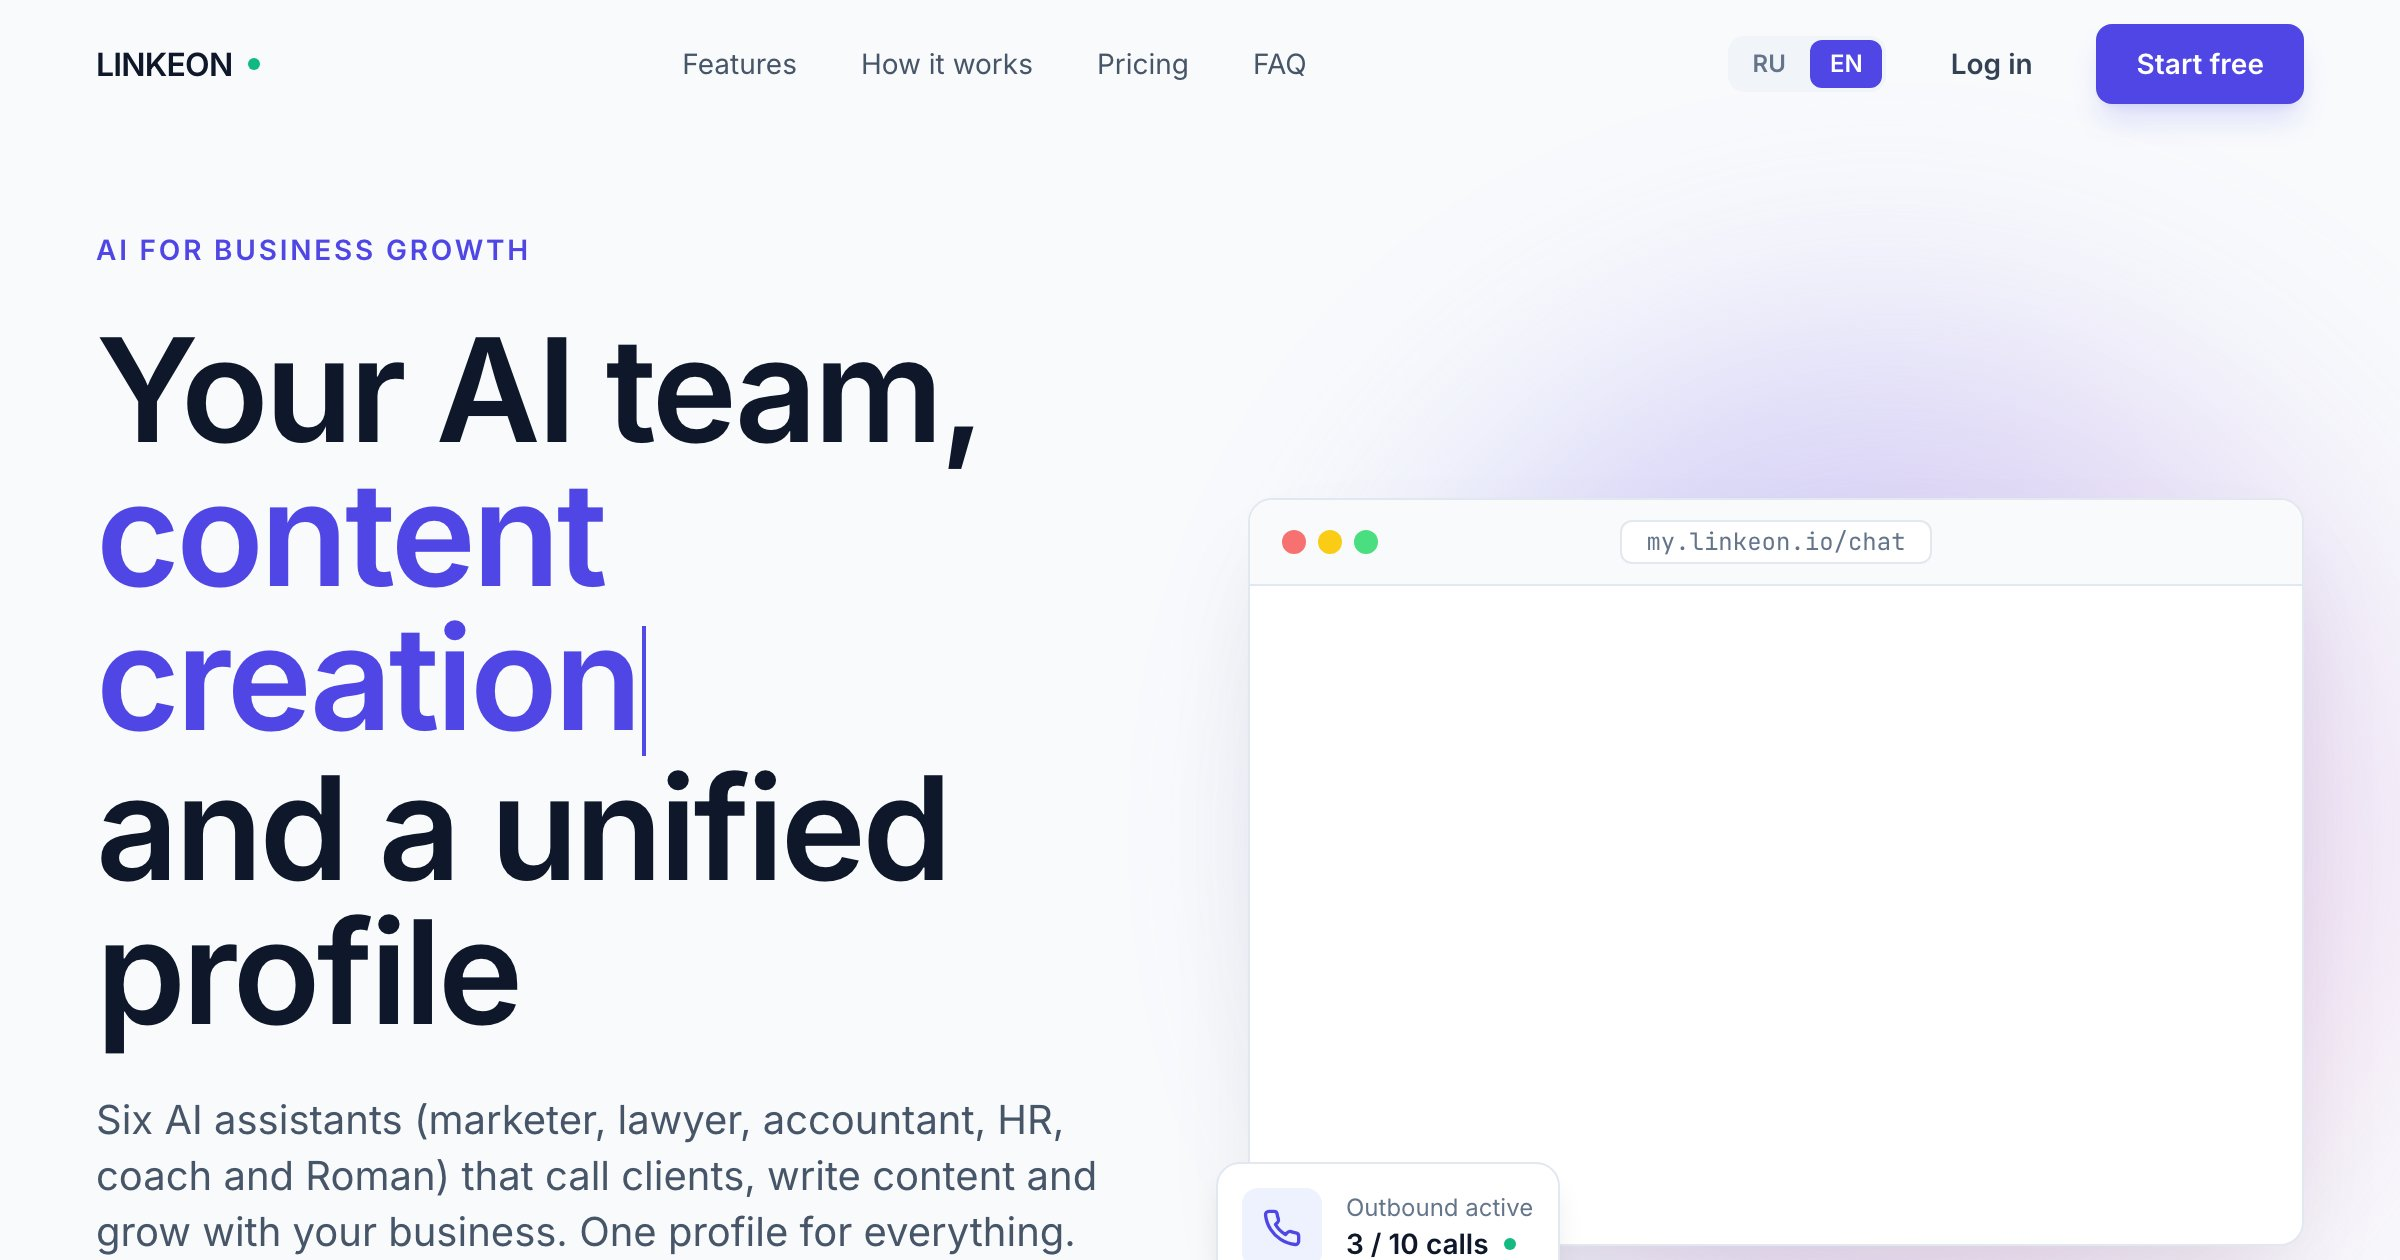
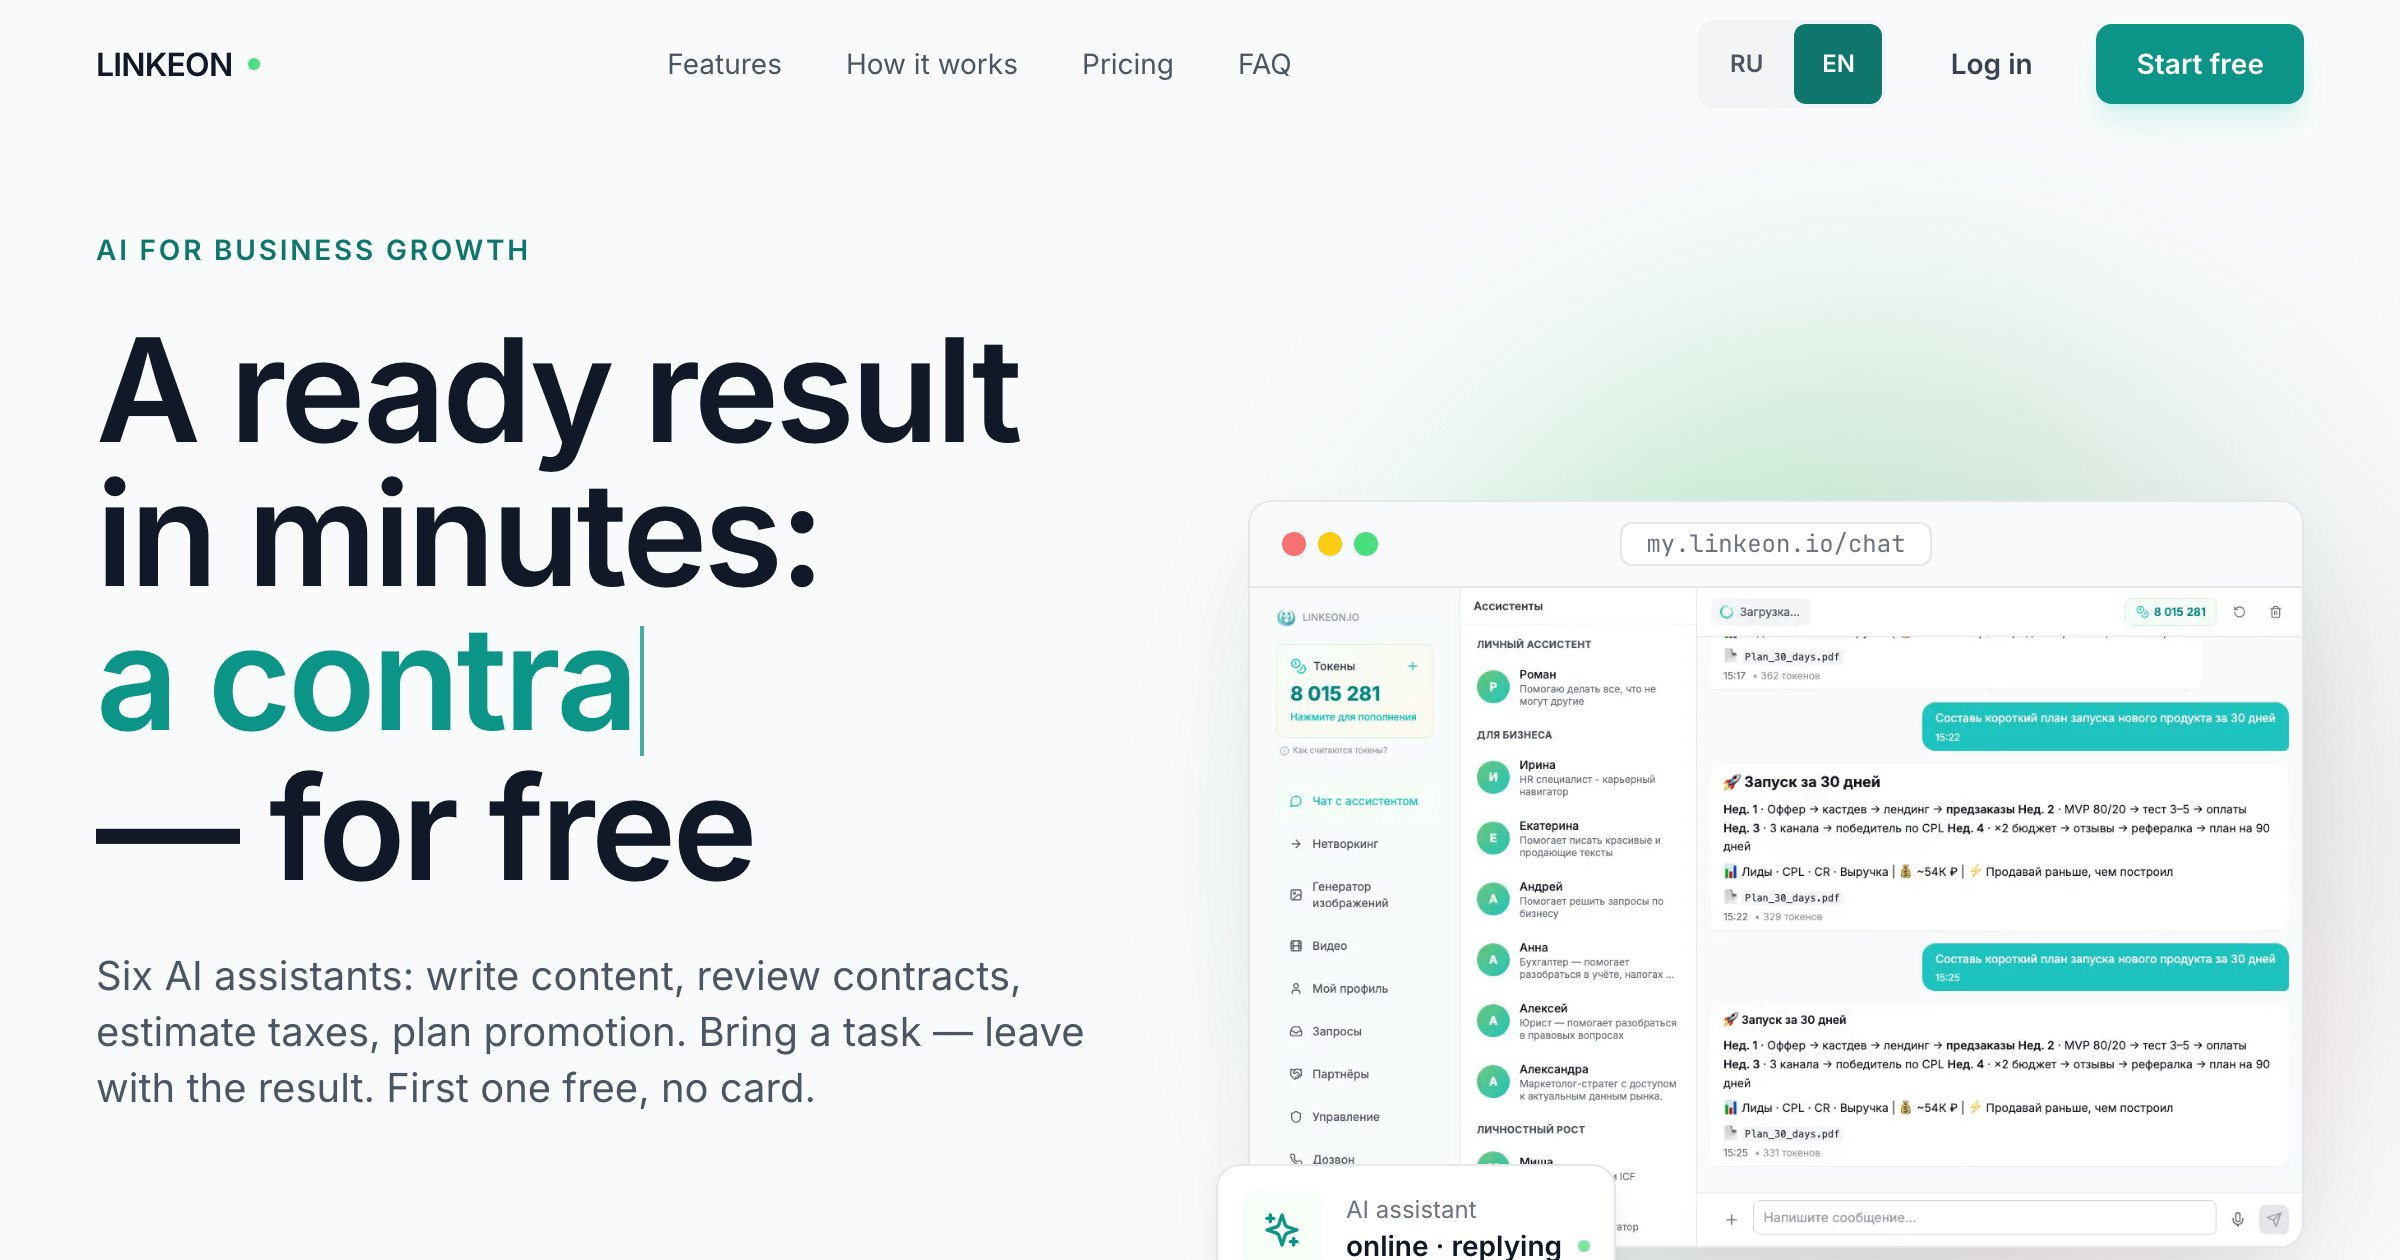
fix(a11y): контраст текста на бренд-фоне + перегенерация og-обложки
Считанный контраст по WCAG 2.1: brand-700 (#0d9488) с белым/gray-50
даёт ~3.74:1 (~3.58 на gray-50) — проходит только крупный/полужирный
текст (порог 3:1), но не мелкий обычный (нужно 4.5:1). Точечно поднят
фон/текст до brand-800 (~5.2-5.5:1) в местах с мелким текстом:
LangSwitcher, бейджи Pricing (popular/savings), CTA-кнопки PersonaCTA
и LegalModal, ссылки Networking/Assistants/HowItWorks/ContentEngine,
Eyebrow. bg-brand-500 (#4ade80, ~1.74:1 с белым) в savings-бейдже тоже
поднят до brand-800 по тому же правилу.

Button.tsx (primary, text-sm/base font-semibold) не тронут — крупный
полужирный текст проходит порог 3:1 и на brand-700 (~3.74:1). Иконки,
декоративные точки/курсор и крупные заголовки на brand-700
(Hero h1-акцент, номера HowItWorks) тоже не тронуты — проходят 3:1.

diff --git a/src/components/sections/ContentEngine.tsx b/src/components/sections/ContentEngine.tsx
@@ -38,7 +38,7 @@ export default function ContentEngine() {
                 </div>
               ))}
             </div>
-            <a href={appUrl("/image-gen")} data-cta="content-imagegen" className="mt-5 inline-flex items-center gap-1 py-2 min-h-11 text-brand-700 hover:text-brand-800 text-sm font-semibold">
+            <a href={appUrl("/image-gen")} data-cta="content-imagegen" className="mt-5 inline-flex items-center gap-1 py-2 min-h-11 text-brand-800 hover:text-brand-900 text-sm font-semibold">
               my.linkeon.io/image-gen <ArrowRight aria-hidden="true" className="w-4 h-4" />
             </a>
           </Card>
@@ -58,7 +58,7 @@ export default function ContentEngine() {
                 />
               </ScreenshotFrame>
             </div>
-            <a href={appUrl("/video")} data-cta="content-video" className="mt-5 inline-flex items-center gap-1 py-2 min-h-11 text-brand-700 hover:text-brand-800 text-sm font-semibold">
+            <a href={appUrl("/video")} data-cta="content-video" className="mt-5 inline-flex items-center gap-1 py-2 min-h-11 text-brand-800 hover:text-brand-900 text-sm font-semibold">
               my.linkeon.io/video <ArrowRight aria-hidden="true" className="w-4 h-4" />
             </a>
           </Card>

diff --git a/src/components/sections/Pricing.tsx b/src/components/sections/Pricing.tsx
@@ -44,12 +44,12 @@ export default function Pricing() {
             <FadeIn key={p.id} delay={i * 100}>
               <div className={`relative h-full flex flex-col rounded-2xl p-6 ${p.popular ? 'border-2 border-brand-700 shadow-lg shadow-brand-600/10 lg:scale-105 bg-white' : 'border border-gray-200 bg-white'}`}>
                 {p.popular && (
-                  <span className="absolute -top-3 left-4 bg-brand-700 text-white text-xs font-semibold px-4 py-1 rounded-full">
+                  <span className="absolute -top-3 left-4 bg-brand-800 text-white text-xs font-semibold px-4 py-1 rounded-full">
                     {t('pricing.popular')}
                   </span>
                 )}
                 {p.savings && (
-                  <span className="absolute -top-3 right-4 bg-brand-500 text-white text-xs font-semibold px-3 py-1 rounded-full">
+                  <span className="absolute -top-3 right-4 bg-brand-800 text-white text-xs font-semibold px-3 py-1 rounded-full">
                     {t('pricing.savings', { value: p.savings })}
                   </span>
                 )}

diff --git a/src/components/sections/PersonaCTA.tsx b/src/components/sections/PersonaCTA.tsx
@@ -40,7 +40,7 @@ export default function PersonaCTA() {
               <a
                 href={appUrl('/', { utm_content: utm })}
                 data-cta={`persona-${key}`}
-                className="mt-5 inline-flex items-center justify-center gap-1.5 py-2.5 px-4 rounded-xl bg-brand-700 hover:bg-brand-800 text-white text-sm font-semibold transition-colors"
+                className="mt-5 inline-flex items-center justify-center gap-1.5 py-2.5 px-4 rounded-xl bg-brand-800 hover:bg-brand-900 text-white text-sm font-semibold transition-colors"
               >
                 {t(`personaCta.cards.${key}.cta`)} <ArrowRight aria-hidden="true" className="w-4 h-4" />
               </a>

diff --git a/src/components/sections/Networking.tsx b/src/components/sections/Networking.tsx
@@ -42,7 +42,7 @@ export default function Networking() {
       </div>
 
       <div className="mt-10 text-center">
-        <a href={SEARCH_URL} data-cta="networking-link" className="inline-flex items-center gap-1 py-2 min-h-11 text-brand-700 hover:text-brand-800 font-semibold text-sm">
+        <a href={SEARCH_URL} data-cta="networking-link" className="inline-flex items-center gap-1 py-2 min-h-11 text-brand-800 hover:text-brand-900 font-semibold text-sm">
           {t('networking.cta')} <ArrowRight aria-hidden="true" className="w-4 h-4" />
         </a>
       </div>

diff --git a/src/components/sections/Assistants.tsx b/src/components/sections/Assistants.tsx
@@ -40,7 +40,7 @@ export default function Assistants() {
             })}
           </div>
 
-          <a href={START_URL} data-cta="assistants-link" className="inline-flex items-center gap-1 py-2 min-h-11 text-brand-700 hover:text-brand-800 font-semibold text-sm">
+          <a href={START_URL} data-cta="assistants-link" className="inline-flex items-center gap-1 py-2 min-h-11 text-brand-800 hover:text-brand-900 font-semibold text-sm">
             {t('assistants.cta')} <ArrowRight aria-hidden="true" className="w-4 h-4" />
           </a>
         </FadeIn>

diff --git a/src/components/sections/HowItWorks.tsx b/src/components/sections/HowItWorks.tsx
@@ -32,7 +32,7 @@ export default function HowItWorks() {
       </div>
 
       <FadeIn delay={500} className="text-center mt-12">
-        <a href={appUrl()} data-cta="how-start" className="inline-flex items-center gap-1 py-2 min-h-11 text-brand-700 hover:text-brand-800 font-semibold">
+        <a href={appUrl()} data-cta="how-start" className="inline-flex items-center gap-1 py-2 min-h-11 text-brand-800 hover:text-brand-900 font-semibold">
           {t('how.cta')} <ArrowRight aria-hidden="true" className="w-4 h-4" />
         </a>
       </FadeIn>

diff --git a/src/components/layout/LegalModal.tsx b/src/components/layout/LegalModal.tsx
@@ -89,7 +89,7 @@ export default function LegalModal({ type, onClose }: LegalModalProps) {
           <button
             type="button"
             onClick={onClose}
-            className="w-full bg-brand-700 hover:bg-brand-800 text-white font-medium py-3 px-6 rounded-lg transition-colors"
+            className="w-full bg-brand-800 hover:bg-brand-900 text-white font-medium py-3 px-6 rounded-lg transition-colors"
           >
             {isEn ? 'Close' : 'Закрыть'}
           </button>

diff --git a/src/components/ui/Eyebrow.tsx b/src/components/ui/Eyebrow.tsx
@@ -2,7 +2,7 @@ interface Props { children: string; className?: string }
 
 export default function Eyebrow({ children, className = '' }: Props) {
   return (
-    <span className={`inline-block text-xs md:text-sm font-semibold text-brand-700 tracking-widest uppercase ${className}`}>
+    <span className={`inline-block text-xs md:text-sm font-semibold text-brand-800 tracking-widest uppercase ${className}`}>
       {children}
     </span>
   );

diff --git a/src/components/ui/LangSwitcher.tsx b/src/components/ui/LangSwitcher.tsx
@@ -9,7 +9,7 @@ export default function LangSwitcher() {
   };
 
   const base = 'inline-flex items-center justify-center px-3 text-xs font-semibold rounded-md transition-colors min-w-[44px] min-h-[40px]';
-  const active = 'bg-brand-700 text-white';
+  const active = 'bg-brand-800 text-white';
   const inactive = 'text-gray-600 hover:text-gray-900';
 
   return (
